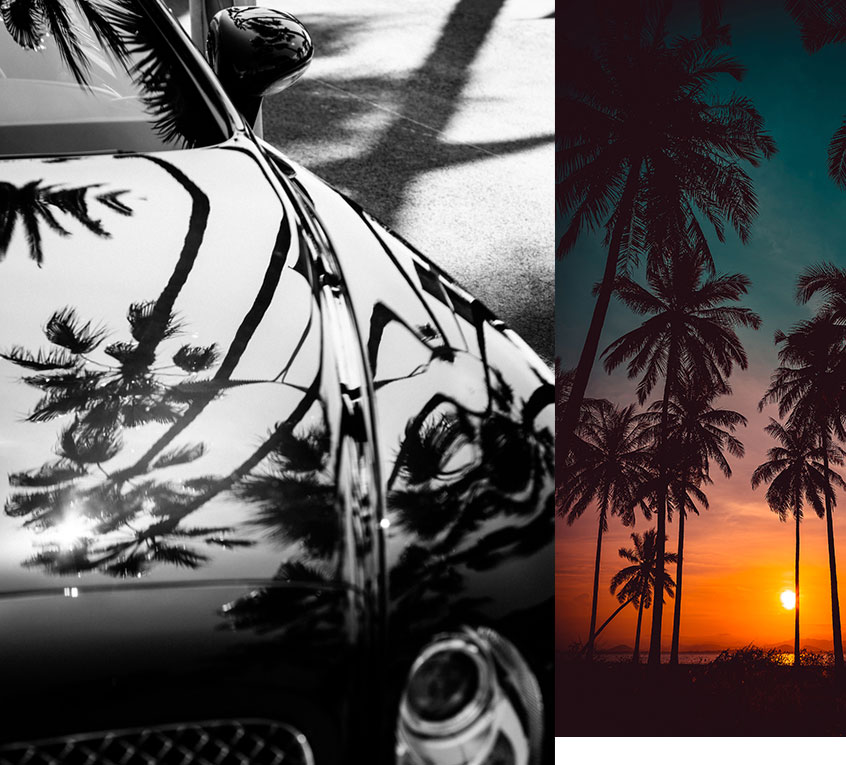
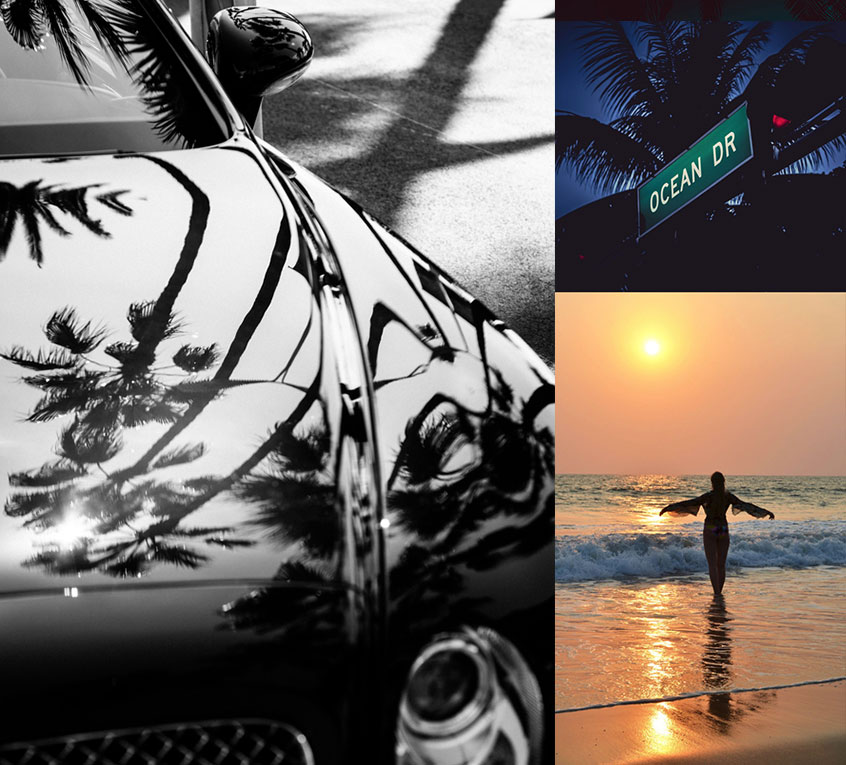
gallery added

Changed region(s): [[0.6454, 0.0, 1.0, 1.0]]

diff --git a/js/galleria.classic.css b/js/galleria.classic.css
@@ -1,0 +1,227 @@
+/**
+ * Galleria Classic Theme 2016-09-03
+ * http://galleria.io
+ *
+ * Copyright (c) 2010 - 2016 worse is better UG
+ * Licensed under the MIT license
+ * https://raw.github.com/worseisbetter/galleria/master/LICENSE
+ *
+ */
+
+#galleria-loader{height:1px!important}
+
+.galleria-theme-classic {
+    position: relative;
+    overflow: hidden;
+    background: #000;
+}
+.galleria-theme-classic img {
+    -moz-user-select: none;
+    -webkit-user-select: none;
+    -o-user-select: none;
+}
+.galleria-theme-classic .galleria-stage {
+    position: absolute;
+    top: 10px;
+    bottom: 60px;
+    left: 10px;
+    right: 10px;
+    overflow:hidden;
+}
+.galleria-theme-classic .galleria-thumbnails-container {
+    height: 50px;
+    bottom: 0;
+    position: absolute;
+    left: 10px;
+    right: 10px;
+    z-index: 2;
+}
+.galleria-theme-classic .galleria-carousel .galleria-thumbnails-list {
+    margin-left: 30px;
+    margin-right: 30px;
+}
+.galleria-theme-classic .galleria-thumbnails .galleria-image {
+    height: 40px;
+    width: 60px;
+    background: #000;
+    margin: 0 5px 0 0;
+    border: 1px solid #000;
+    float: left;
+    cursor: pointer;
+}
+.galleria-theme-classic .galleria-counter {
+    position: absolute;
+    bottom: 10px;
+    left: 10px;
+    text-align: right;
+    color: #fff;
+    font: normal 11px/1 arial,sans-serif;
+    z-index: 1;
+}
+.galleria-theme-classic .galleria-loader {
+    background: #000;
+    width: 20px;
+    height: 20px;
+    position: absolute;
+    top: 10px;
+    right: 10px;
+    z-index: 2;
+    display: none;
+    background: url(classic-loader.gif) no-repeat 2px 2px;
+}
+.galleria-theme-classic .galleria-info {
+    width: 50%;
+    top: 15px;
+    left: 15px;
+    z-index: 2;
+    position: absolute;
+}
+.galleria-theme-classic .galleria-info-text {
+    background-color: #000;
+    padding: 12px;
+    display: none;
+    /* IE7 */ zoom:1;
+}
+.galleria-theme-classic .galleria-info-title {
+    font: bold 12px/1.1 arial,sans-serif;
+    margin: 0;
+    color: #fff;
+    margin-bottom: 7px;
+}
+.galleria-theme-classic .galleria-info-description {
+    font: italic 12px/1.4 georgia,serif;
+    margin: 0;
+    color: #bbb;
+}
+.galleria-theme-classic .galleria-info-close {
+    width: 9px;
+    height: 9px;
+    position: absolute;
+    top: 5px;
+    right: 5px;
+    background-position: -753px -11px;
+    opacity: .5;
+    filter: alpha(opacity=50);
+    cursor: pointer;
+    display: none;
+}
+.galleria-theme-classic .notouch .galleria-info-close:hover{
+    opacity:1;
+    filter: alpha(opacity=100);
+}
+.galleria-theme-classic .touch .galleria-info-close:active{
+    opacity:1;
+    filter: alpha(opacity=100);
+}
+.galleria-theme-classic .galleria-info-link {
+    background-position: -669px -5px;
+    opacity: .7;
+    filter: alpha(opacity=70);
+    position: absolute;
+    width: 20px;
+    height: 20px;
+    cursor: pointer;
+    background-color: #000;
+}
+.galleria-theme-classic.notouch .galleria-info-link:hover {
+    opacity: 1;
+    filter: alpha(opacity=100);
+}
+.galleria-theme-classic.touch .galleria-info-link:active {
+    opacity: 1;
+    filter: alpha(opacity=100);
+}
+.galleria-theme-classic .galleria-image-nav {
+    position: absolute;
+    top: 50%;
+    margin-top: -62px;
+    width: 100%;
+    height: 62px;
+    left: 0;
+}
+.galleria-theme-classic .galleria-image-nav-left,
+.galleria-theme-classic .galleria-image-nav-right {
+    opacity: .3;
+    filter: alpha(opacity=30);
+    cursor: pointer;
+    width: 62px;
+    height: 124px;
+    position: absolute;
+    left: 10px;
+    z-index: 2;
+    background-position: 0 46px;
+}
+.galleria-theme-classic .galleria-image-nav-right {
+    left: auto;
+    right: 10px;
+    background-position: -254px 46px;
+    z-index: 2;
+}
+.galleria-theme-classic.notouch .galleria-image-nav-left:hover,
+.galleria-theme-classic.notouch .galleria-image-nav-right:hover {
+    opacity: 1;
+    filter: alpha(opacity=100);
+}
+.galleria-theme-classic.touch .galleria-image-nav-left:active,
+.galleria-theme-classic.touch .galleria-image-nav-right:active {
+    opacity: 1;
+    filter: alpha(opacity=100);
+}
+.galleria-theme-classic .galleria-thumb-nav-left,
+.galleria-theme-classic .galleria-thumb-nav-right {
+    cursor: pointer;
+    display: none;
+    background-position: -495px 5px;
+    position: absolute;
+    left: 0;
+    top: 0;
+    height: 40px;
+    width: 23px;
+    z-index: 3;
+    opacity: .8;
+    filter: alpha(opacity=80);
+}
+.galleria-theme-classic .galleria-thumb-nav-right {
+    background-position: -578px 5px;
+    border-right: none;
+    right: 0;
+    left: auto;
+}
+.galleria-theme-classic .galleria-thumbnails-container .disabled {
+    opacity: .2;
+    filter: alpha(opacity=20);
+    cursor: default;
+}
+.galleria-theme-classic.notouch .galleria-thumb-nav-left:hover,
+.galleria-theme-classic.notouch .galleria-thumb-nav-right:hover {
+    opacity: 1;
+    filter: alpha(opacity=100);
+    background-color: #111;
+}
+.galleria-theme-classic.touch .galleria-thumb-nav-left:active,
+.galleria-theme-classic.touch .galleria-thumb-nav-right:active {
+    opacity: 1;
+    filter: alpha(opacity=100);
+    background-color: #111;
+}
+.galleria-theme-classic.notouch .galleria-thumbnails-container .disabled:hover {
+    opacity: .2;
+    filter: alpha(opacity=20);
+    background-color: transparent;
+}
+
+.galleria-theme-classic .galleria-carousel .galleria-thumb-nav-left,
+.galleria-theme-classic .galleria-carousel .galleria-thumb-nav-right {
+    display: block;
+}
+.galleria-theme-classic .galleria-thumb-nav-left,
+.galleria-theme-classic .galleria-thumb-nav-right,
+.galleria-theme-classic .galleria-info-link,
+.galleria-theme-classic .galleria-info-close,
+.galleria-theme-classic .galleria-image-nav-left,
+.galleria-theme-classic .galleria-image-nav-right {
+    background-image: url(classic-map.png);
+    background-repeat: no-repeat;
+}
+.galleria-theme-classic.galleria-container.videoplay .galleria-info,
+.galleria-theme-classic.galleria-container.videoplay .galleria-counter{ display:none!important; }

diff --git a/index.html b/index.html
@@ -30,7 +30,7 @@ bg: bg-home
     </div>
 
     <div class="item">
-      <img src="/images/slideshow/celino-beach.jpg"  alt="Miami Beach Lifestyle ">
+      <img src="/images/slideshow/shutterstock_Lifeguardstand.jpg"  alt="Lifeguard stand">
         
     </div> 
   </div>
@@ -54,7 +54,7 @@ bg: bg-home
             <h2 id="home">TIMELESS LUXURY REIMAGINED</h2>
             <h4 class="right-pd">Culturally Influenced, Unspoken Elegance</h4>
             <p class="right-pd">
-             Set to debut debuting summer 2017 on iconic Ocean Drive, The Celino will bring a new lifestyle of indulgence to South Beach, a personality rich in fashion fused with Latin charisma and tropical class, a vibrant reinterpretation of a party that happened on New Year’s Eve 1940. By bridging the historic Park Central Hotel with a fully modern, loft-style, ocean front oasis, a new standard of luxury will be set on Ocean Drive. The Celino will encompass the ambiance of timeless allure and transform itself into a memorable destination for entertainment and noteworthy moments. Get your dancing shoes ready!
+             Set to debut summer 2017 on iconic Ocean Drive, The Celino will bring a new lifestyle of indulgence to South Beach, a personality rich in fashion fused with Latin charisma and tropical class, a vibrant reinterpretation of a party that happened on New Year’s Eve 1940. By bridging the historic Park Central Hotel with a fully modern, loft-style, ocean front oasis, a new standard of luxury will be set on Ocean Drive. The Celino will encompass the ambiance of timeless allure and transform itself into a memorable destination for entertainment and noteworthy moments. Get your dancing shoes ready!
 
             </p>
             <!--p class="text-right">
@@ -114,7 +114,7 @@ bg: bg-home
                <li>12 Signature Balcony Suites </li>
                <li> 14 Luxe One-Bedroom Suites </li>
                 <li>82 Rooms with Ocean Views</li>
-                <li>Beach Service, Two Chairs and Towels</li>
+                <li>Beach Service, Chairs and Towels</li>
                 <li>Rooftop Glass Bottom Pool</li>
                 <li>Courtyard Pool and Bar</li>
                 <li>Custom Loaner Bicycles</li>
@@ -262,7 +262,16 @@ var data = [
              { image: '/images/gallery/OneBedroomSuite_LivingRoom.jpg', title:' One Bedroom Suite Living Room' },
              { image: '/images/gallery/JuniorSuite.jpg', title:' Balcony Suite' },
              { image: '/images/gallery/Courtyard.jpg', title:' Courtyard Lounge' },
-             { image: '/images/gallery/Rooftop_Pool.jpg', title:' Rooftop Pool' }
+             { image: '/images/gallery/Rooftop_Pool.jpg', title:' Rooftop Pool' },
+             { image: '/images/gallery/celino-hotel-miami-beach.jpg'},
+             { image: '/images/gallery/celino-hotel-miami-beach-1.jpg'},
+             { image: '/images/gallery/celino-hotel-miami-beach-2.jpg'},
+             { image: '/images/gallery/celino-hotel-miami-beach-3.jpg'},
+             { image: '/images/gallery/celino-hotel-miami-beach-4.jpg'},
+             { image: '/images/gallery/celino-hotel-miami-exterior.jpg'},
+             { image: '/images/gallery/celino-hotel-miami-exterior-1.jpg'},
+             { image: '/images/gallery/celino-hotel-miami-ocean-drive.jpg'},
+             { image: '/images/gallery/celino-hotel-miami-pool.jpg'} 
           ];
 
 </script>

diff --git a/_includes/script.html b/_includes/script.html
@@ -12,9 +12,10 @@
 <script src="/js/rt3-filters.js"></script> 
 <script src="/js/owl.carousel.min.js"></script> 
 <script src="/js/smooth-scroll.js"></script>
-<script  src="https://maps.googleapis.com/maps/api/js?key=AIzaSyBelNV-sTz2NQsh-wO0Ru92jv9nMqoZTDI"></script>
 <script src="/js/galleria-1.4.7.min.js"></script>
 <script src="/js/galleria.classic.js"></script>
+<script  src="https://maps.googleapis.com/maps/api/js?key=AIzaSyBelNV-sTz2NQsh-wO0Ru92jv9nMqoZTDI"></script>
+
 <script src="/js/jquery.fittext.js"></script> 
 <script src="/js/custom.js"></script> 
 

diff --git a/js/custom.js b/js/custom.js
@@ -21,6 +21,7 @@ $('#gallery, #gallery-footer').click(function(){
             $('.galleria').galleria({
                 transition: 'fade',
                 data_source: data,
+                 wait: true,
                 _toggleInfo: false
                 }); 
 jQuery('#slideShow h3').fitText(1.2, { maxFontSize: '129px' });
